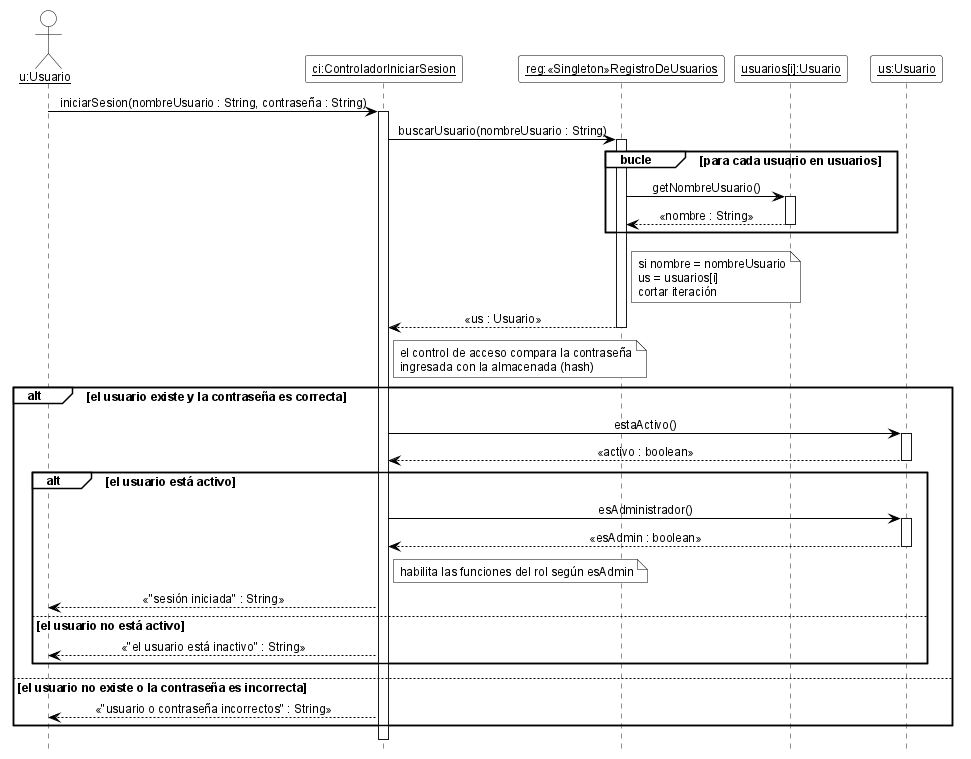
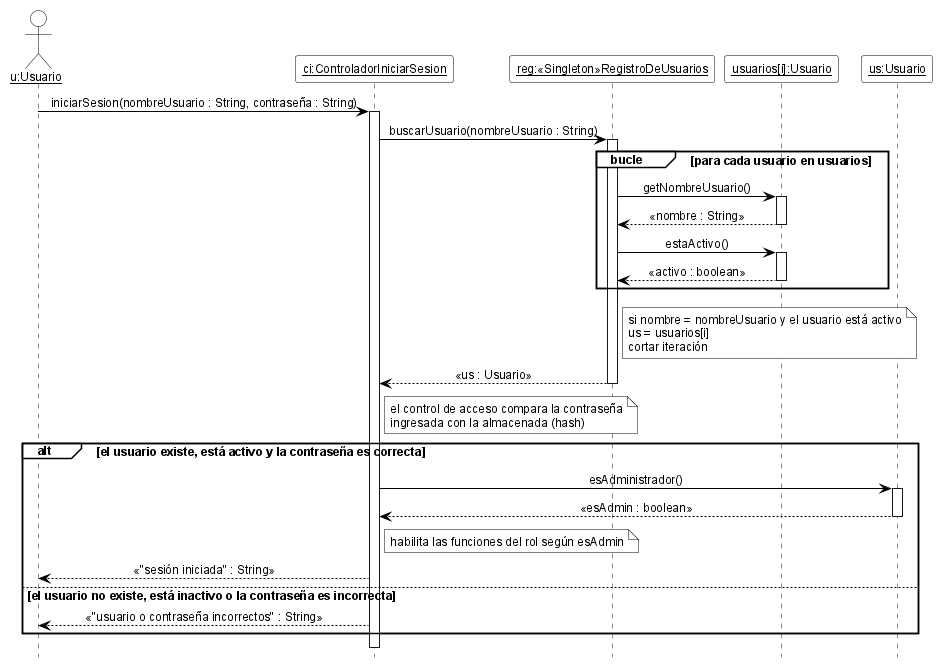
cambios nuevos

diff --git a/08-Diagrama De Secuencia/Diagramas_de_Secuencia.md b/08-Diagrama De Secuencia/Diagramas_de_Secuencia.md
@@ -56,26 +56,22 @@ ci -> reg ++ : buscarUsuario(nombreUsuario : String)
 group bucle [para cada usuario en usuarios]
   reg -> ui ++ : getNombreUsuario()
   ui --> reg -- : «nombre : String»
+  reg -> ui ++ : estaActivo()
+  ui --> reg -- : «activo : boolean»
 end
 note right of reg
-  si nombre = nombreUsuario
+  si nombre = nombreUsuario y el usuario está activo
   us = usuarios[i]
   cortar iteración
 end note
 reg --> ci -- : «us : Usuario»
 note right of ci : el control de acceso compara la contraseña\ningresada con la almacenada (hash)
-alt el usuario existe y la contraseña es correcta
-  ci -> us ++ : estaActivo()
-  us --> ci -- : «activo : boolean»
-  alt el usuario está activo
-    ci -> us ++ : esAdministrador()
-    us --> ci -- : «esAdmin : boolean»
-    note right of ci : habilita las funciones del rol según esAdmin
-    ci --> u : «"sesión iniciada" : String»
-  else el usuario no está activo
-    ci --> u : «"el usuario está inactivo" : String»
-  end
-else el usuario no existe o la contraseña es incorrecta
+alt el usuario existe, está activo y la contraseña es correcta
+  ci -> us ++ : esAdministrador()
+  us --> ci -- : «esAdmin : boolean»
+  note right of ci : habilita las funciones del rol según esAdmin
+  ci --> u : «"sesión iniciada" : String»
+else el usuario no existe, está inactivo o la contraseña es incorrecta
   ci --> u : «"usuario o contraseña incorrectos" : String»
 end
 deactivate ci
@@ -683,7 +679,6 @@ participant "<u>cat:«Singleton»Catalogo</u>" as cat
 participant "<u>productos[i]:Producto</u>" as pi
 participant "<u>p:Producto</u>" as p
 participant "<u>lotes[i]:Lote</u>" as li
-participant "<u>lt:Lote</u>" as lt
 
 u -> cri ++ : registrarIngreso(codigoProducto : String, nroLote : String, cantidad : int, fechaVencimiento : Date)
 alt los datos están completos y la cantidad es mayor a 0
@@ -710,14 +705,10 @@ alt los datos están completos y la cantidad es mayor a 0
       cortar iteración
     end note
     p --> cri -- : «lt : Lote»
-    opt el lote ya existe
-      cri -> lt ++ : getFechaVencimiento()
-      lt --> cri -- : «fechaLote : Date»
-    end
     note right of cri
       vencida = fechaVencimiento anterior a la fecha actual
-      el texto indica si es un lote nuevo o existente
-      (con fechaLote) y avisa si la mercadería está vencida
+      el texto indica si es un lote nuevo o si el lote
+      ya existe, y avisa si la mercadería está vencida
     end note
     cri --> u : «"ingreso a confirmar" : String»
   else el producto no existe
@@ -1173,7 +1164,7 @@ skinparam NoteBackgroundColor white
 skinparam NoteBorderColor black
 
 actor "<u>u:Usuario</u>" as u
-participant "<u>cpv:ControladorConsultarProximosAVencer</u>" as cpv
+participant "<u>ccv:ControladorConsultarVencimientosYStock</u>" as cpv
 participant "<u>cat:«Singleton»Catalogo</u>" as cat
 participant "<u>productos[i]:Producto</u>" as pi
 participant "<u>lotes[j]:Lote</u>" as li
@@ -1238,7 +1229,7 @@ skinparam NoteBackgroundColor white
 skinparam NoteBorderColor black
 
 actor "<u>u:Usuario</u>" as u
-participant "<u>cpv:ControladorConsultarProximosAVencer</u>" as cpv
+participant "<u>ccv:ControladorConsultarVencimientosYStock</u>" as cpv
 participant "<u>cat:«Singleton»Catalogo</u>" as cat
 participant "<u>productos[i]:Producto</u>" as pi
 participant "<u>p:Producto</u>" as p
